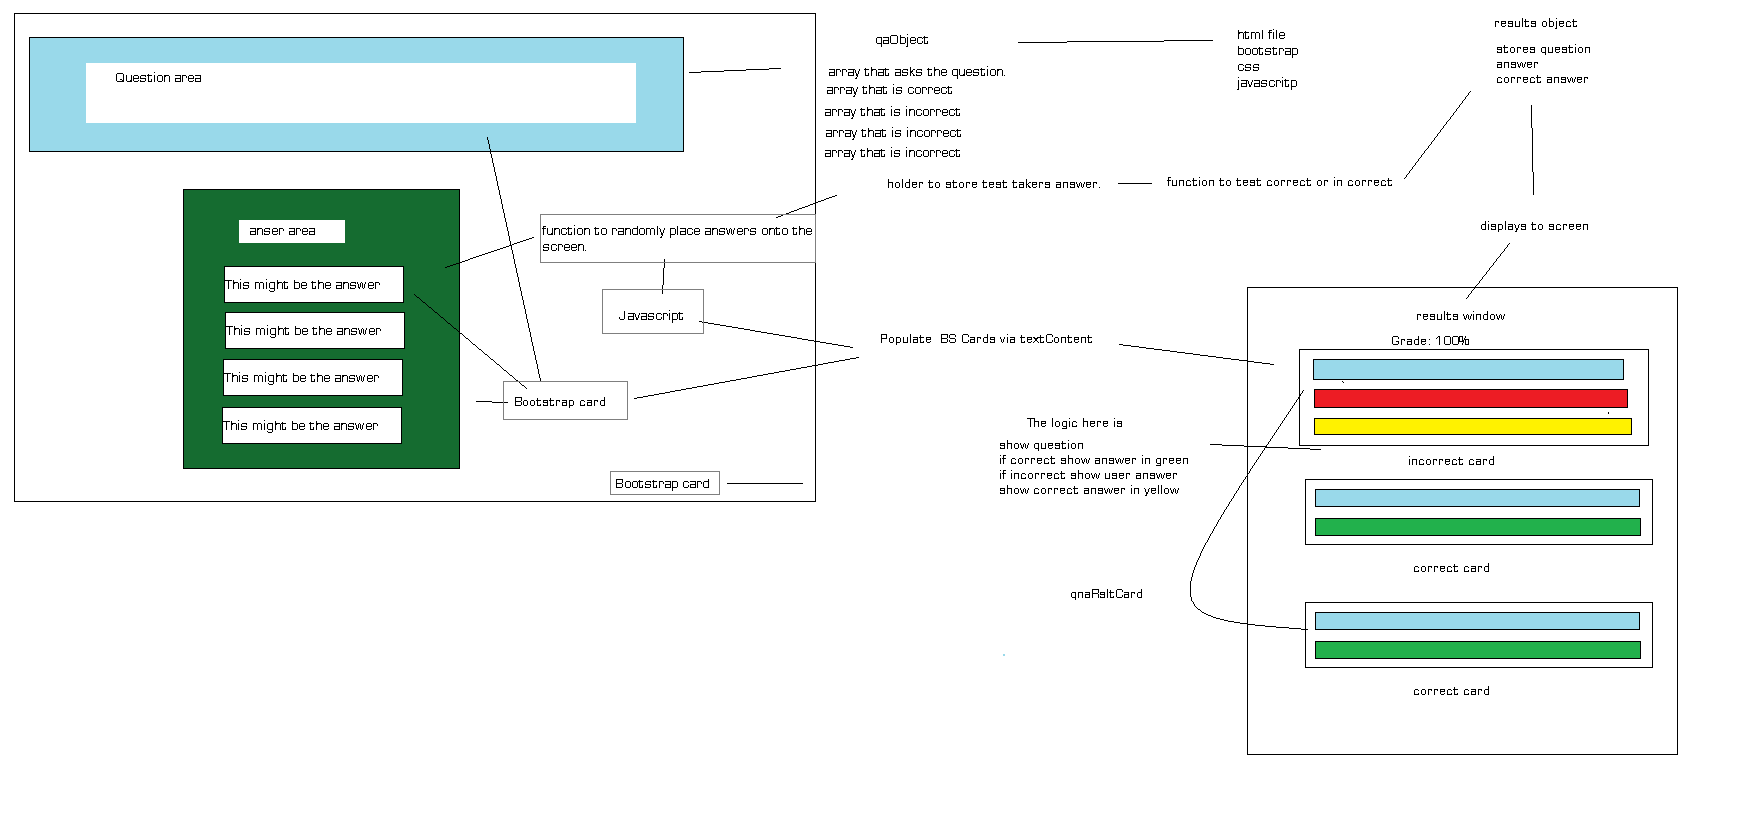
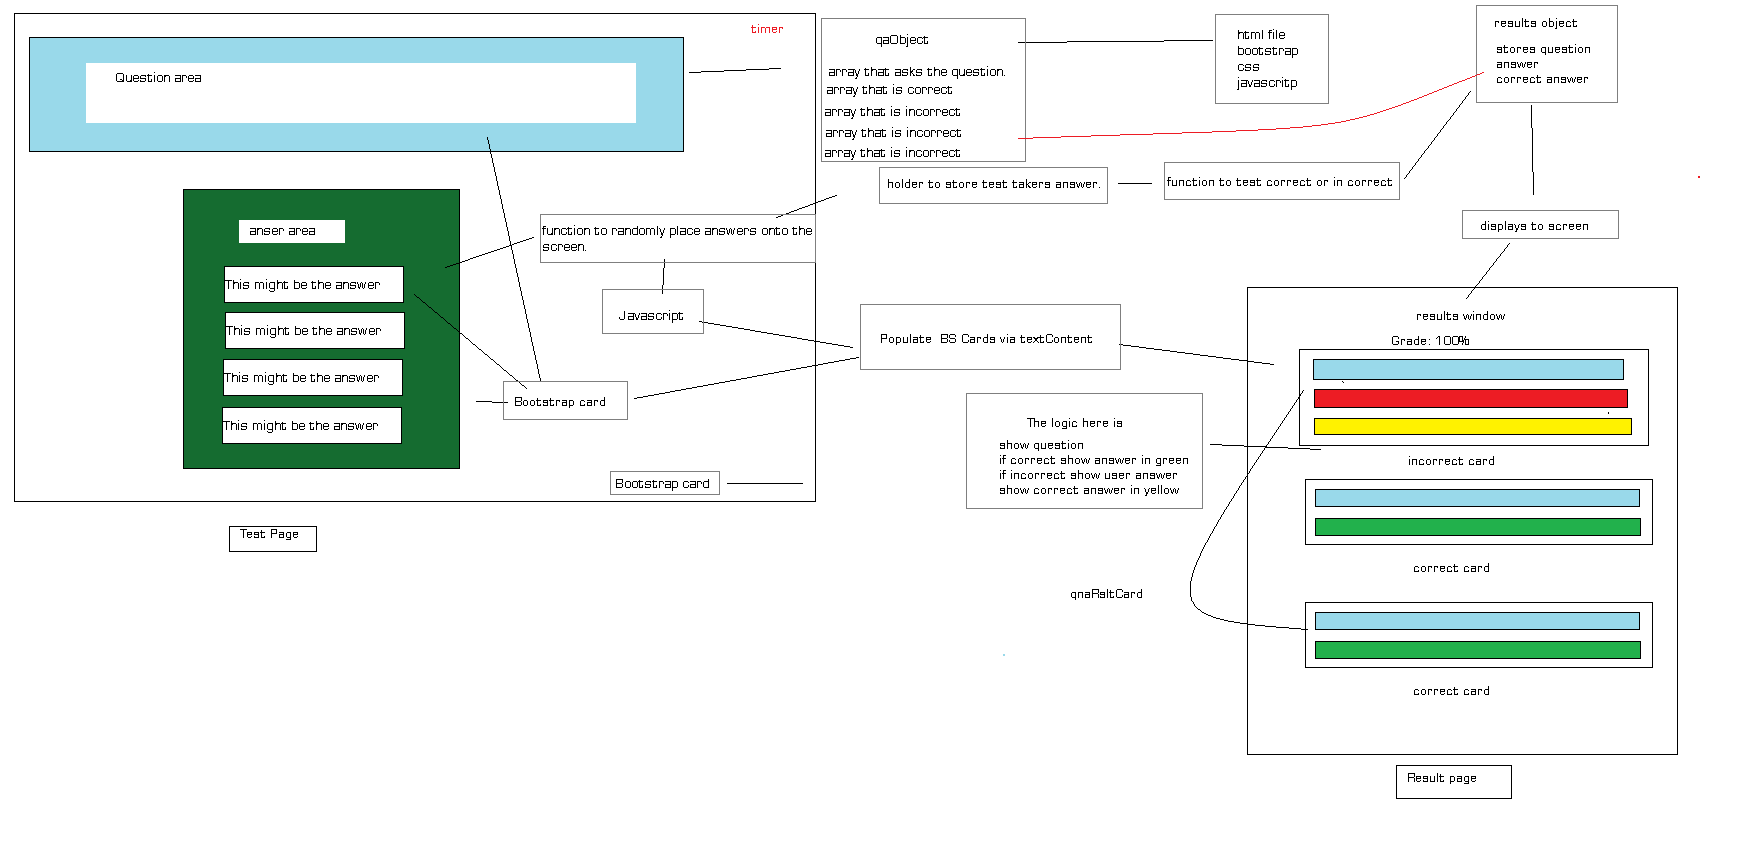
commiting designs

diff --git a/readMe.md b/readMe.md
@@ -1,2 +1,30 @@
-This is the start of the Quiz Template Javascript program.
+## This is the start of the Quiz Template Javascript program.
+
+The Quiz template should begin with a Intro page that gives an intro to the test.
+
+The Test Page.
+
+The Result page.
+
+## Javascript logic.
+
+Thus far I can identify two objects.
+
+-The qaObject.
+
+-The results obj.
+
+## Exploiting Bootstrap.
+
+-Using bootstrap to get a nice looking test and result page.
+
+-Alerts are being used to display the questions and answers.
+
+-JS will have to display to these elements.
+
+## html
+index.html - will introduce the test.
+qnaCard.html - will run the user through the test. 
+resultpage.html - will display once the user is done with the test.
+
 
